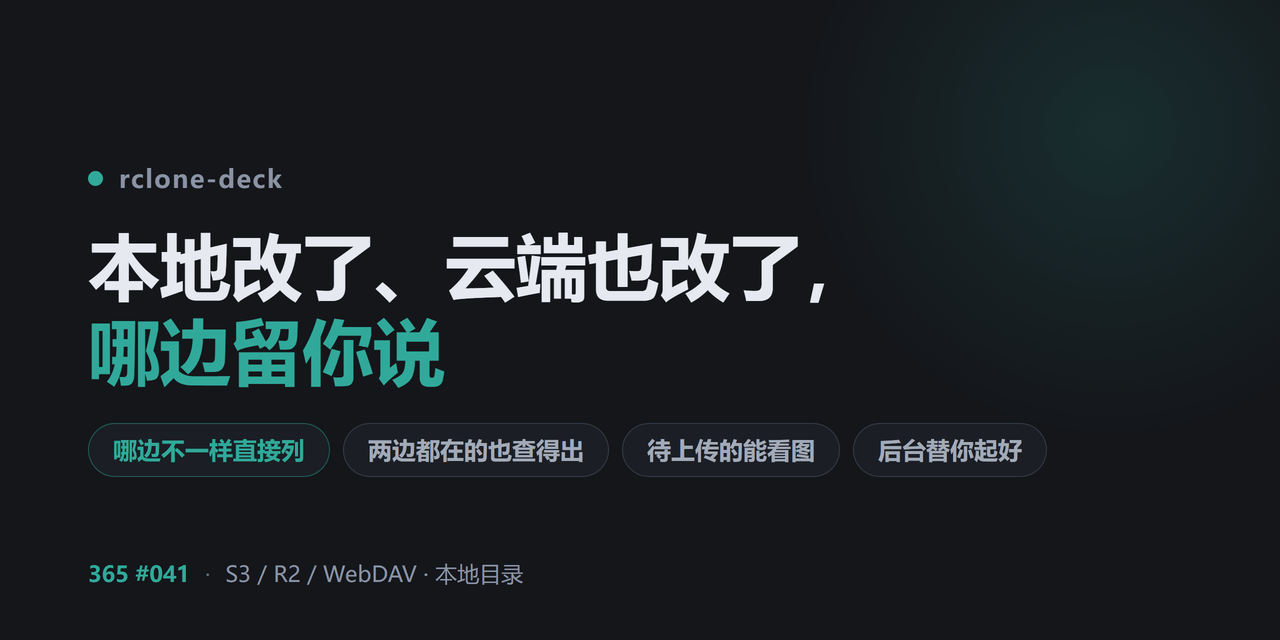
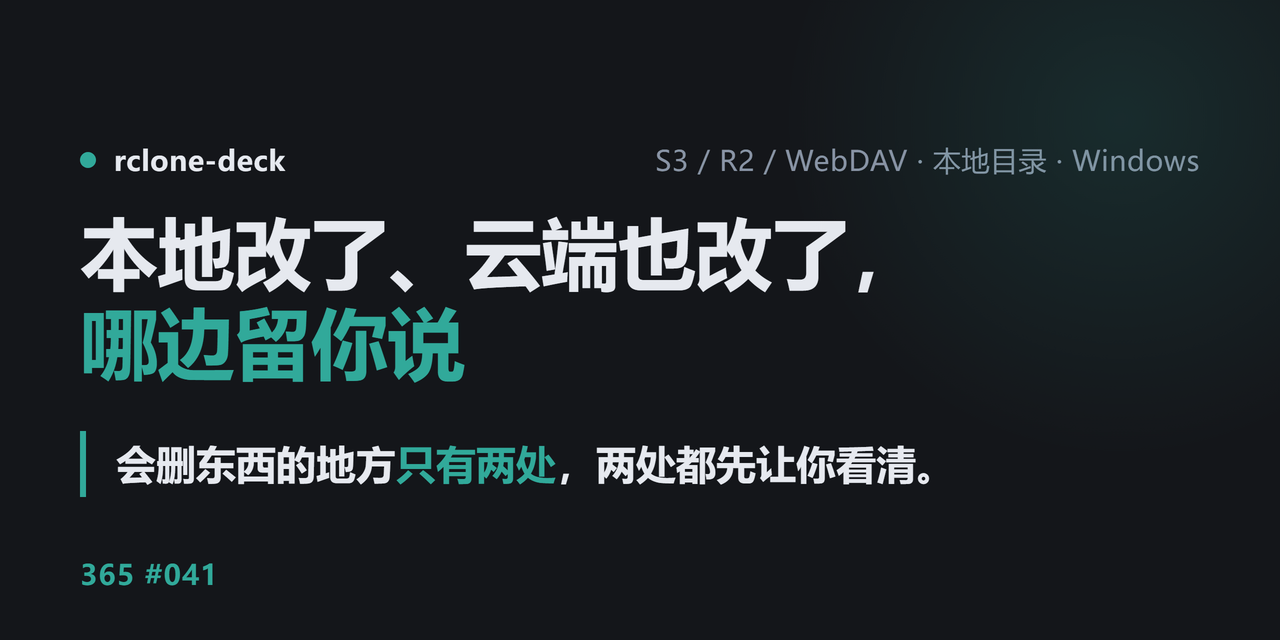
社交预览卡：按缩略图倒推重排，钩子换成「删除前的确认」
两张图重画（social-card.html + social-card.png + social-card@2x.png）。
重画的理由有两条，都是量出来的，不是审美偏好。

一、注释说的和画的不是一回事。

上一版的注释写着「钩子取的是这个项目最大的那块价值——README 通篇在讲
『会删东西的地方只有两处，两处都先让你看清』」，可屏上那四枚能力标讲的是
列差异 / 查得出 / 看图 / 起后台，一条都没讲那件事。而社交卡只有这一屏能说话。
现在屏上就是那句：**会删东西的地方只有两处，两处都先让你看清。**

二、尺寸是按缩略图倒推的，不是按全尺寸正推的。

信息流里这张卡大约以 400px 宽出现，1280→400 是 0.3125 的缩放。于是：
28px 的字落到约 8.75px（认得出）、26px 落到约 8px（读不出）、23px 落到约 7px（灰条）。
把上一版渲染出来缩到 400px 看，那四枚 24px 的能力标、那句补充说明、那条页脚，
**全是糊的**——在唯一真正会被看到的尺寸里不传递任何信息，却把版面切成了五段。
所以砍到只剩三档字号，每档各说一件事：

  · 顶栏一行（28px）：产品名在左、能连谁在右 —— 同一档，不另起一行当页脚
  · 主标题（78px）：本地改了、云端也改了，/ 哪边留你说
  · 安全那条（40px）：带左边框，与主标题拉开一级
  · 系列编号（28px）：只留 365 #041 这一枚，且给足字号

40px 是量出来的：34px 那版缩到 400px 时贴着可读的下沿，40px 留住了余量。

三、右侧那块几何试了三版，删了。

「两摞文件汇到一点」想说的是两边收敛成一个结果。试过右边中线（撞主标题第一行，
78px 那一行实际宽到 x≈875，比按字号估的宽）、右下（压住安全那句的尾巴，
那句宽到 x≈900）、缩窄到 320px（条得降到 20px 以下，400px 下每条只剩 6px，
与一片灰没有区别）。三版都不成立，于是删掉：右半留白，右后的青色光晕已经把
那块填住了。留三档各自读得出来的字，比多一个装饰块实在。

配色仍逐个抄自 src/theme.ts 的 dark 一档，没另配。渲染 exit 0、无缺失资源告警，
全尺寸与 400px 缩略图都看过：中文无豆腐块、无字体回退、无裁切。
copy:scan 与 copy:ascii 复跑仍为 0。

diff --git a/social-card.html b/social-card.html
@@ -2,16 +2,35 @@
 <!--
   rclone-deck 的社交预览图（GitHub Social preview，1280×640）。
 
-  视觉方向：深色底 + 产品自己的色板（src/theme.ts 的 dark 那一档）。
-  抄产品色板而不是另配一套，是为了卡片和界面看着像同一个东西。
+  尺寸是按**缩略图**倒推的，不是按全尺寸正推的。
+  信息流里这张卡大约以 400px 宽出现，所以：1280→400 是 0.3125 的缩放，
+  28px 的字落到约 8.75px（勉强认得出），26px 落到约 8px（读不出来），
+  23px 落到约 7px（纯灰条）。据此只留三档字号，每档各说一件事：
 
-  钩子取的是这个项目**最大的那块价值**，不是最好写的那个点：
-  README 通篇在讲「会删东西的地方只有两处，两处都先让你看清」——
-  「删除前的确认」才是它替用户扛住的那件事，「配 rclone」只是入口。
-  信息流里读者只看得到大色块和大字，所以截图细节一律不进这张卡。
+    1. 是什么     —— 顶栏一行：产品名在左、能连谁在右，同字号，不用另起一行
+    2. 做什么     —— 主标题 78px，两行，第二行落主色
+    3. 凭什么信它 —— 安全那条 40px，带左边框，与主标题拉开一级
+
+  为什么只有这三档：这一版之前有一行 26px 的补充说明和一条 23px 的页脚。
+  把渲染结果缩到 400px 看，那两行都是糊的——它们在唯一真正会被看到的尺寸里
+  不传递任何信息，却把版面切成了四段。**读不出来的字就是噪音，不是内容**，
+  所以砍掉；它们要说的事由主标题与安全那条承接。
+
+  内容上，这一版把**「删除前的确认」**搬到了屏上。上一版的注释写着钩子取的是
+  这个项目最大的那块价值，可屏上四枚能力标讲的是列差异 / 查得出 / 看图 /
+  起后台，一条都没讲那件事——注释说的和画的不是一回事，而社交卡只有这一屏能说话。
+
+  右侧几何不是装饰：两摞文件从两边汇到一点，对应的正是这产品在解决的事——
+  两边都改过之后，收敛成一个结果。形状做到足够粗（28px 的条、32px 的间距），
+  因为它在 400px 下只剩约 9px 高的糊块，细节一律没有意义，只有"两堆 → 一点"
+  这件事还认得出。
+
+  配色逐个抄自 src/theme.ts 的 dark 一档（不是另配的一套），卡片和界面才像同一个东西。
+  注释位不用直双引号（用窄口与破折号），与仓里「文案」那条判据一致。
 
   渲染：
     node {SKILL_DIR}/render.mjs social-card.html social-card.png --palette
+    node {SKILL_DIR}/render.mjs social-card.html social-card@2x.png --dpr 2 --palette
 -->
 <html lang="zh-CN">
 <head>
@@ -19,81 +38,99 @@
 <style>
   * { margin: 0; box-sizing: border-box; }
   body {
-    /* position:relative：让 .foot 锚在卡片上，而不是视口上 —— 少了它，
-       footer 会从任何比视口矮的卡片上漂走。 */
+    /* position:relative：让 .foot 与右侧那块几何锚在卡片上，而不是视口上
+       ——少了它，任何比视口矮的卡片都会把它们甩出去。 */
     position: relative;
     width: 1280px; height: 640px; overflow: hidden;
     display: flex; flex-direction: column; justify-content: center;
-    padding: 0 88px; gap: 30px;
-    /* 色板逐个抄自 src/theme.ts 的 dark 一档，不是另配的 */
+    padding: 0 80px;
     background: #14161A; color: #E6E9EF;
     font-family: system-ui, "Segoe UI", "PingFang SC", "Microsoft YaHei",
                  "Noto Sans CJK SC", "Noto Sans SC", sans-serif;
     -webkit-font-smoothing: antialiased;
   }
-  /* 右后侧一块极淡的青色光晕，暗示"两边对起来"，不抢大字 */
+  /* 右后侧一块极淡的青色光晕，只暗示不抢 */
   body::after {
-    content: ""; position: absolute; right: -140px; top: -180px;
-    width: 620px; height: 620px; border-radius: 50%;
-    background: radial-gradient(circle, rgba(49,169,154,0.16) 0%, rgba(49,169,154,0) 70%);
+    content: ""; position: absolute; right: -180px; top: -220px;
+    width: 680px; height: 680px; border-radius: 50%;
+    background: radial-gradient(circle, rgba(49,169,154,0.15) 0%, rgba(49,169,154,0) 70%);
   }
 
-  .eyebrow {
-    display: flex; align-items: center; gap: 16px;
-    font-size: 25px; font-weight: 600; letter-spacing: 0.06em;
+  /* ── 1. 顶栏：产品名 + 能连谁，同字号同一档，不另起一行 ── */
+  .top {
+    position: relative;
+    display: flex; align-items: center; gap: 18px;
+    font-size: 28px; font-weight: 700; letter-spacing: 0.02em;
     color: #8A93A5;
   }
   /* 主色的小圆点：一眼认出这是哪个产品的卡 */
-  .eyebrow::before {
-    content: ""; width: 15px; height: 15px; border-radius: 50%;
+  .top::before {
+    content: ""; width: 16px; height: 16px; border-radius: 50%;
     background: #31A99A; flex: none;
   }
+  .top .name { color: #E6E9EF; }
+  /* 顶栏右侧：能连谁。同一档字号，于是缩到 400px 时它与产品名一起读得出来，
+     不必另起一行当页脚（页脚那一档在这个尺寸下是读不出来的）。 */
+  .top .reach {
+    position: absolute; right: 0;
+    font-weight: 400; font-size: 28px; color: #8A93A5;
+  }
 
+  /* ── 2. 主标题 ─────────────────────────────────────── */
   h1 {
     position: relative;
-    /* 缩略图尺寸下信息流里只看得清大色块和大字：84px 时标题吃掉近半屏，
-       缩小后仍是最显眼的元素，但给下面的标和页脚留出了呼吸的位置。 */
-    font-size: 72px; line-height: 1.18; font-weight: 800;
-    letter-spacing: -0.01em; max-width: 1010px;
+    /* 缩略图里唯一真正被读到的一档。78px × 两行 ≈ 190px，
+       下面留出安全那条与呼吸的位置——不排满，缩略图下才不糊成一坨。 */
+    font-size: 78px; line-height: 1.16; font-weight: 800;
+    letter-spacing: -0.015em; margin-top: 30px;
   }
   h1 .hl { color: #31A99A; }
 
-  /* 三枚能力标：三小句，不是一句话（那张脸在缩略图里全糊）。
-     放不下就换行，不靠缩小字号硬塞一行——缩略图里本来就看不清小字。 */
-  .pills { position: relative; display: flex; gap: 13px; flex-wrap: wrap; max-width: 1010px; }
-  .pill {
-    font-size: 24px; font-weight: 600; line-height: 1;
-    padding: 14px 24px; border-radius: 999px;
-    background: #1B1E24; color: #A2AAB8;
-    border: 1px solid #333A45;
+  /* ── 3. 安全那条：钩子本体 ─────────────────────────── */
+  /* 左边框而不是第三行标题：它要和主标题拉开一级，又不能大到跟主标题抢。
+     40px 是量出来的——34px 那版缩到 400px 时贴着可读的下沿，40px 留住了余量。 */
+  .safe {
+    position: relative;
+    margin-top: 42px; padding: 6px 0 6px 30px;
+    border-left: 6px solid #31A99A;
+    max-width: 900px;
   }
-  .pill.safe { color: #31A99A; border-color: rgba(49,169,154,0.42); }
+  .safe .lead {
+    font-size: 40px; line-height: 1.36; font-weight: 700; color: #E6E9EF;
+  }
+  .safe .lead em { font-style: normal; color: #31A99A; }
 
+  /* ── 系列编号：只留这一枚，且给足字号 ─────────────── */
+  /* 它是 365 计划里第 041 个项目，对老读者有用；但缩到 400px 只有约 8px，
+     所以只留它、放大它，不再搭配别的小字。 */
   .foot {
-    position: absolute; left: 88px; bottom: 52px;
-    display: flex; align-items: center; gap: 15px;
-    font-size: 22px; color: #8A93A5;
+    position: absolute; left: 80px; bottom: 48px;
+    font-size: 28px; font-weight: 700; letter-spacing: 0.04em;
+    color: #31A99A;
   }
-  .foot .sep { color: #60697D; }
-  .foot .num { font-weight: 700; color: #31A99A; }
+
+  /* 这一版**没有右侧几何**。量过才知道它在这个版面里放不下：
+     主标题第一行（78px）实际宽到 x≈875，安全那句宽到 x≈900，顶栏右侧到 x≈1228，
+     于是右侧只剩约 320px 的横向空档，而「两摞文件汇到一点」最小也要 396px。
+     压到 320 就得把条降到 20px 以下，400px 缩略图下每条只剩 6px——与一片灰没有区别。
+     试过三版位置（右边中线、右下、缩窄），每一版要么在 400px 下读不出形状、
+     要么压住上面某一句字。既然它在唯一真正会被看到的尺寸里传递不了信息，
+     就不留它：右半留白，右后的青色光晕已经把那块填住了。
+     留三档字号、各自都能在 400px 下读出来，比多一个装饰块实在。 */
 </style>
 </head>
 <body>
-  <div class="eyebrow">rclone-deck</div>
+  <div class="top">
+    <span class="name">rclone-deck</span>
+    <span class="reach">S3 / R2 / WebDAV · 本地目录 · Windows</span>
+  </div>
 
   <h1>本地改了、云端也改了，<br /><span class="hl">哪边留你说</span></h1>
 
-  <div class="pills">
-    <span class="pill safe">哪边不一样直接列</span>
-    <span class="pill">两边都在的也查得出</span>
-    <span class="pill">待上传的能看图</span>
-    <span class="pill">后台替你起好</span>
+  <div class="safe">
+    <div class="lead">会删东西的地方<em>只有两处</em>，两处都先让你看清。</div>
   </div>
 
-  <div class="foot">
-    <span class="num">365 #041</span>
-    <span class="sep">·</span>
-    <span>S3 / R2 / WebDAV · 本地目录</span>
-  </div>
+  <div class="foot">365 #041</div>
 </body>
 </html>
